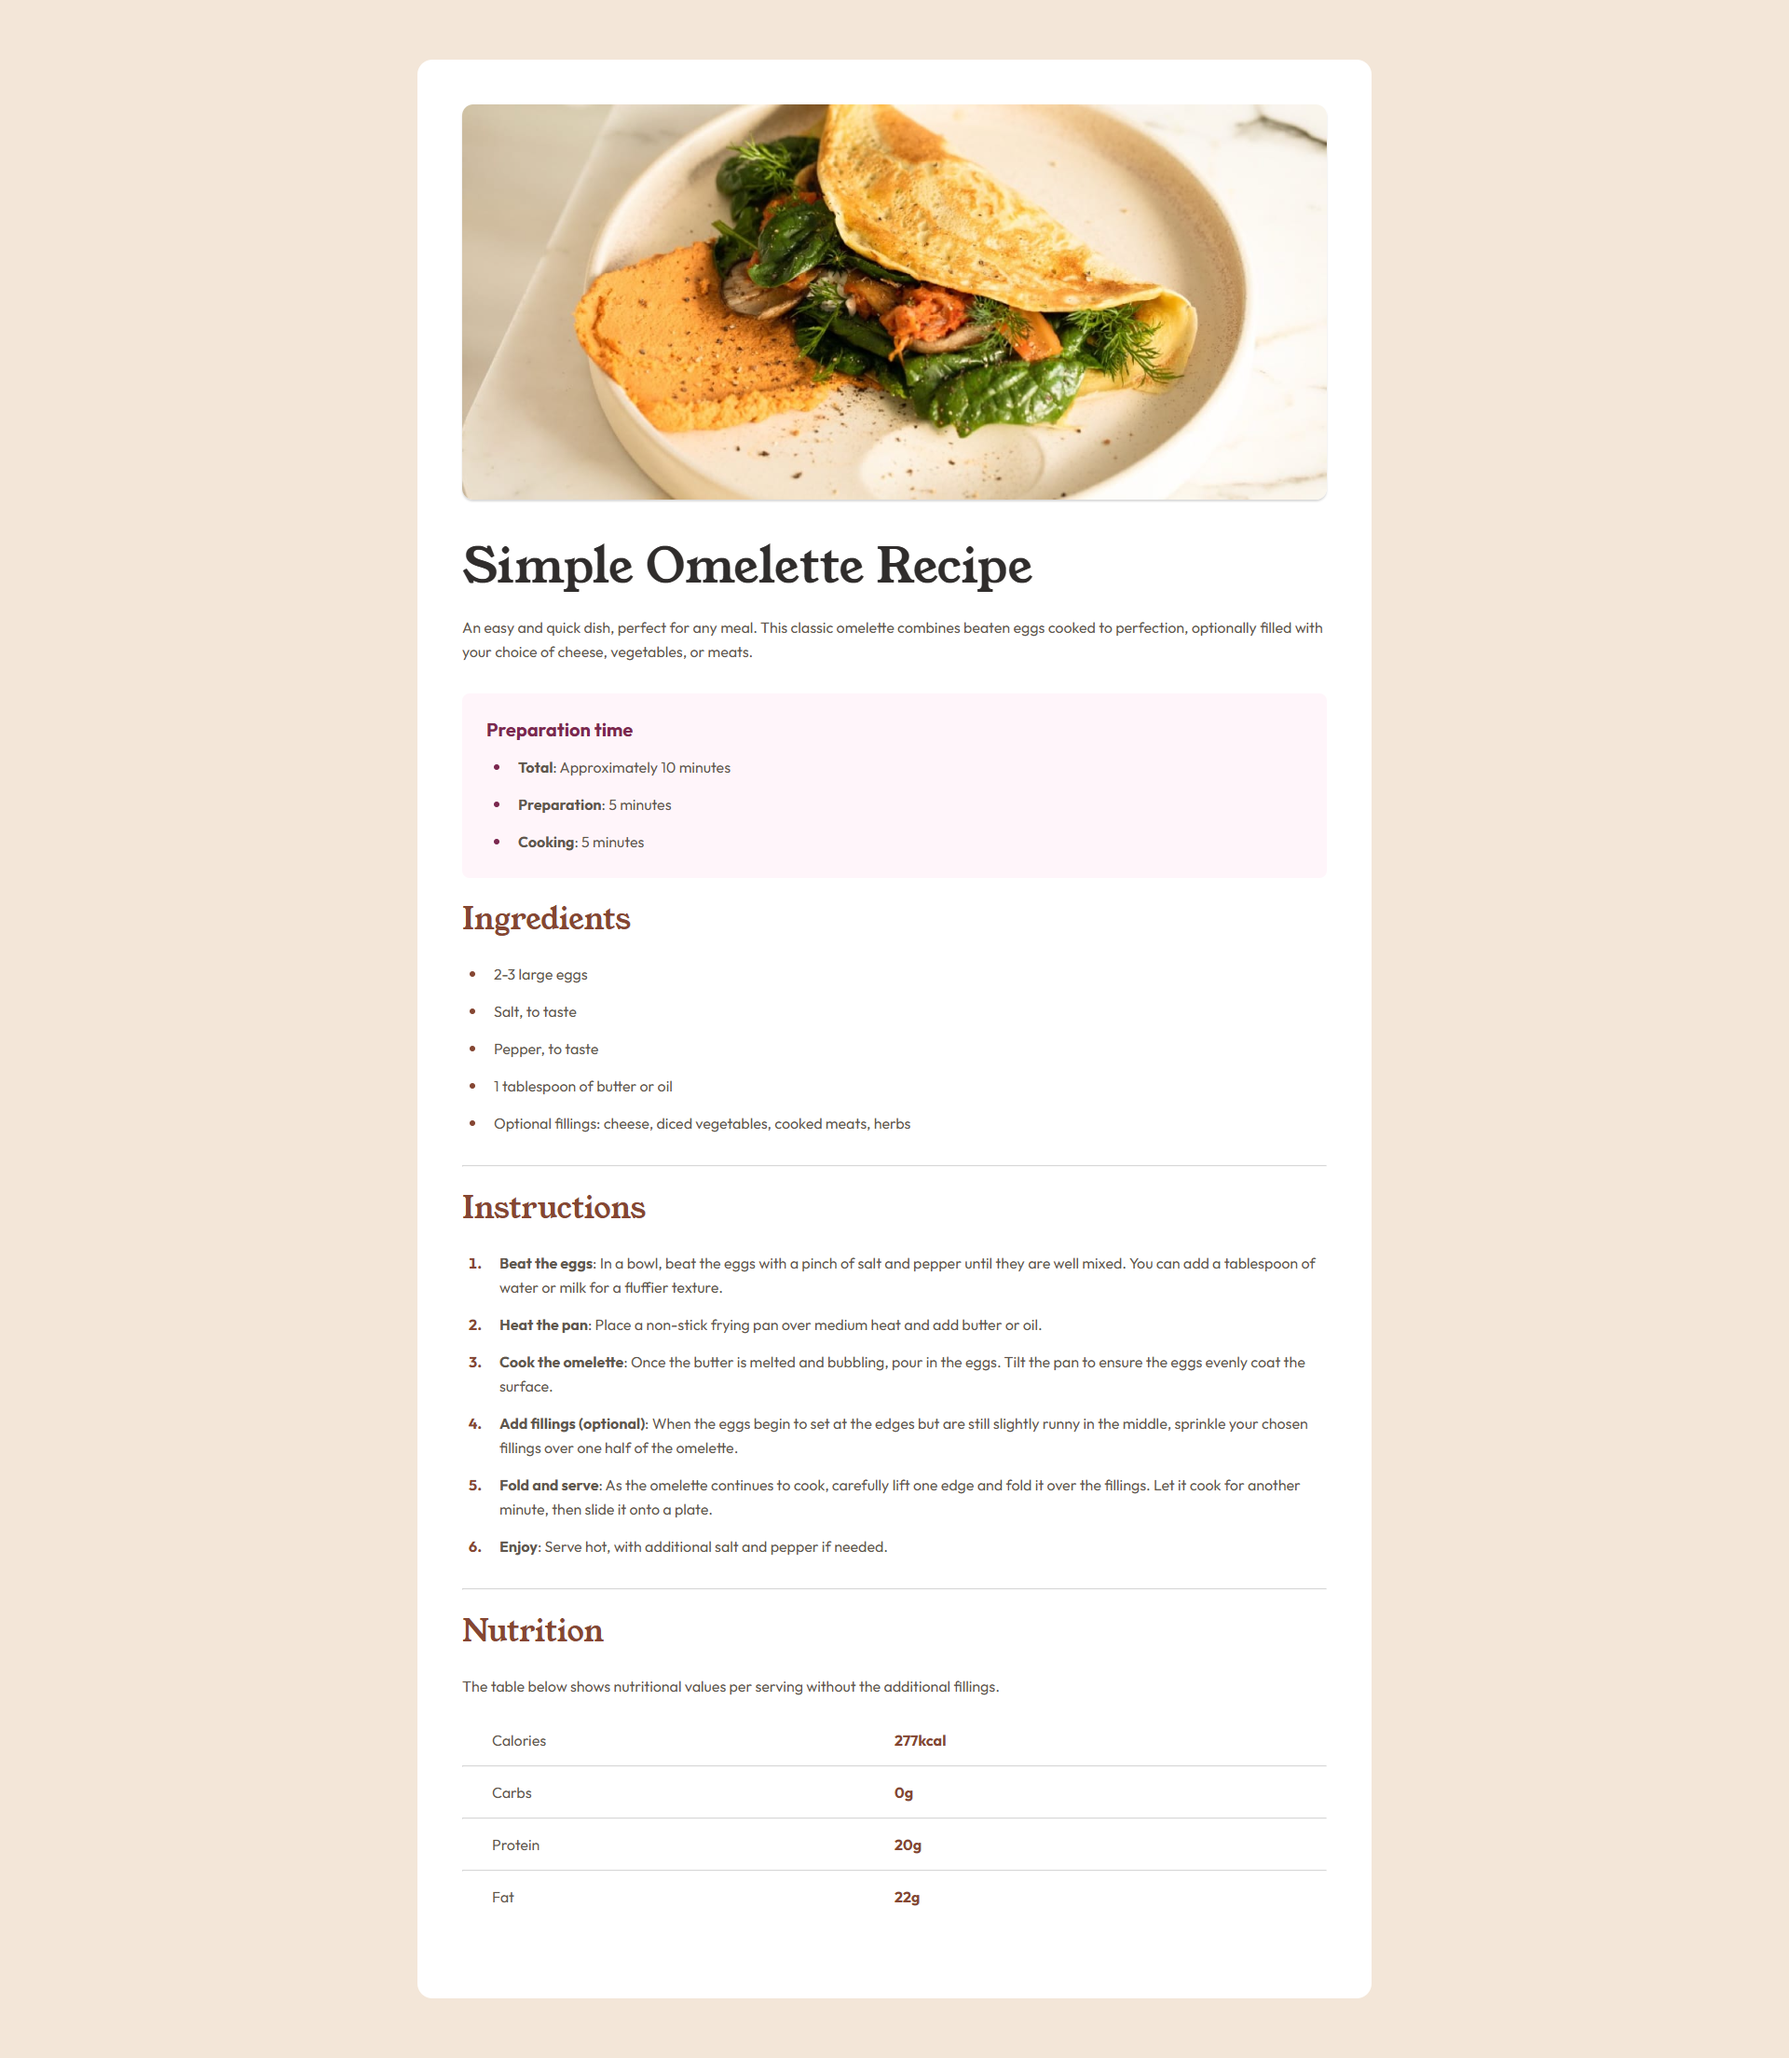
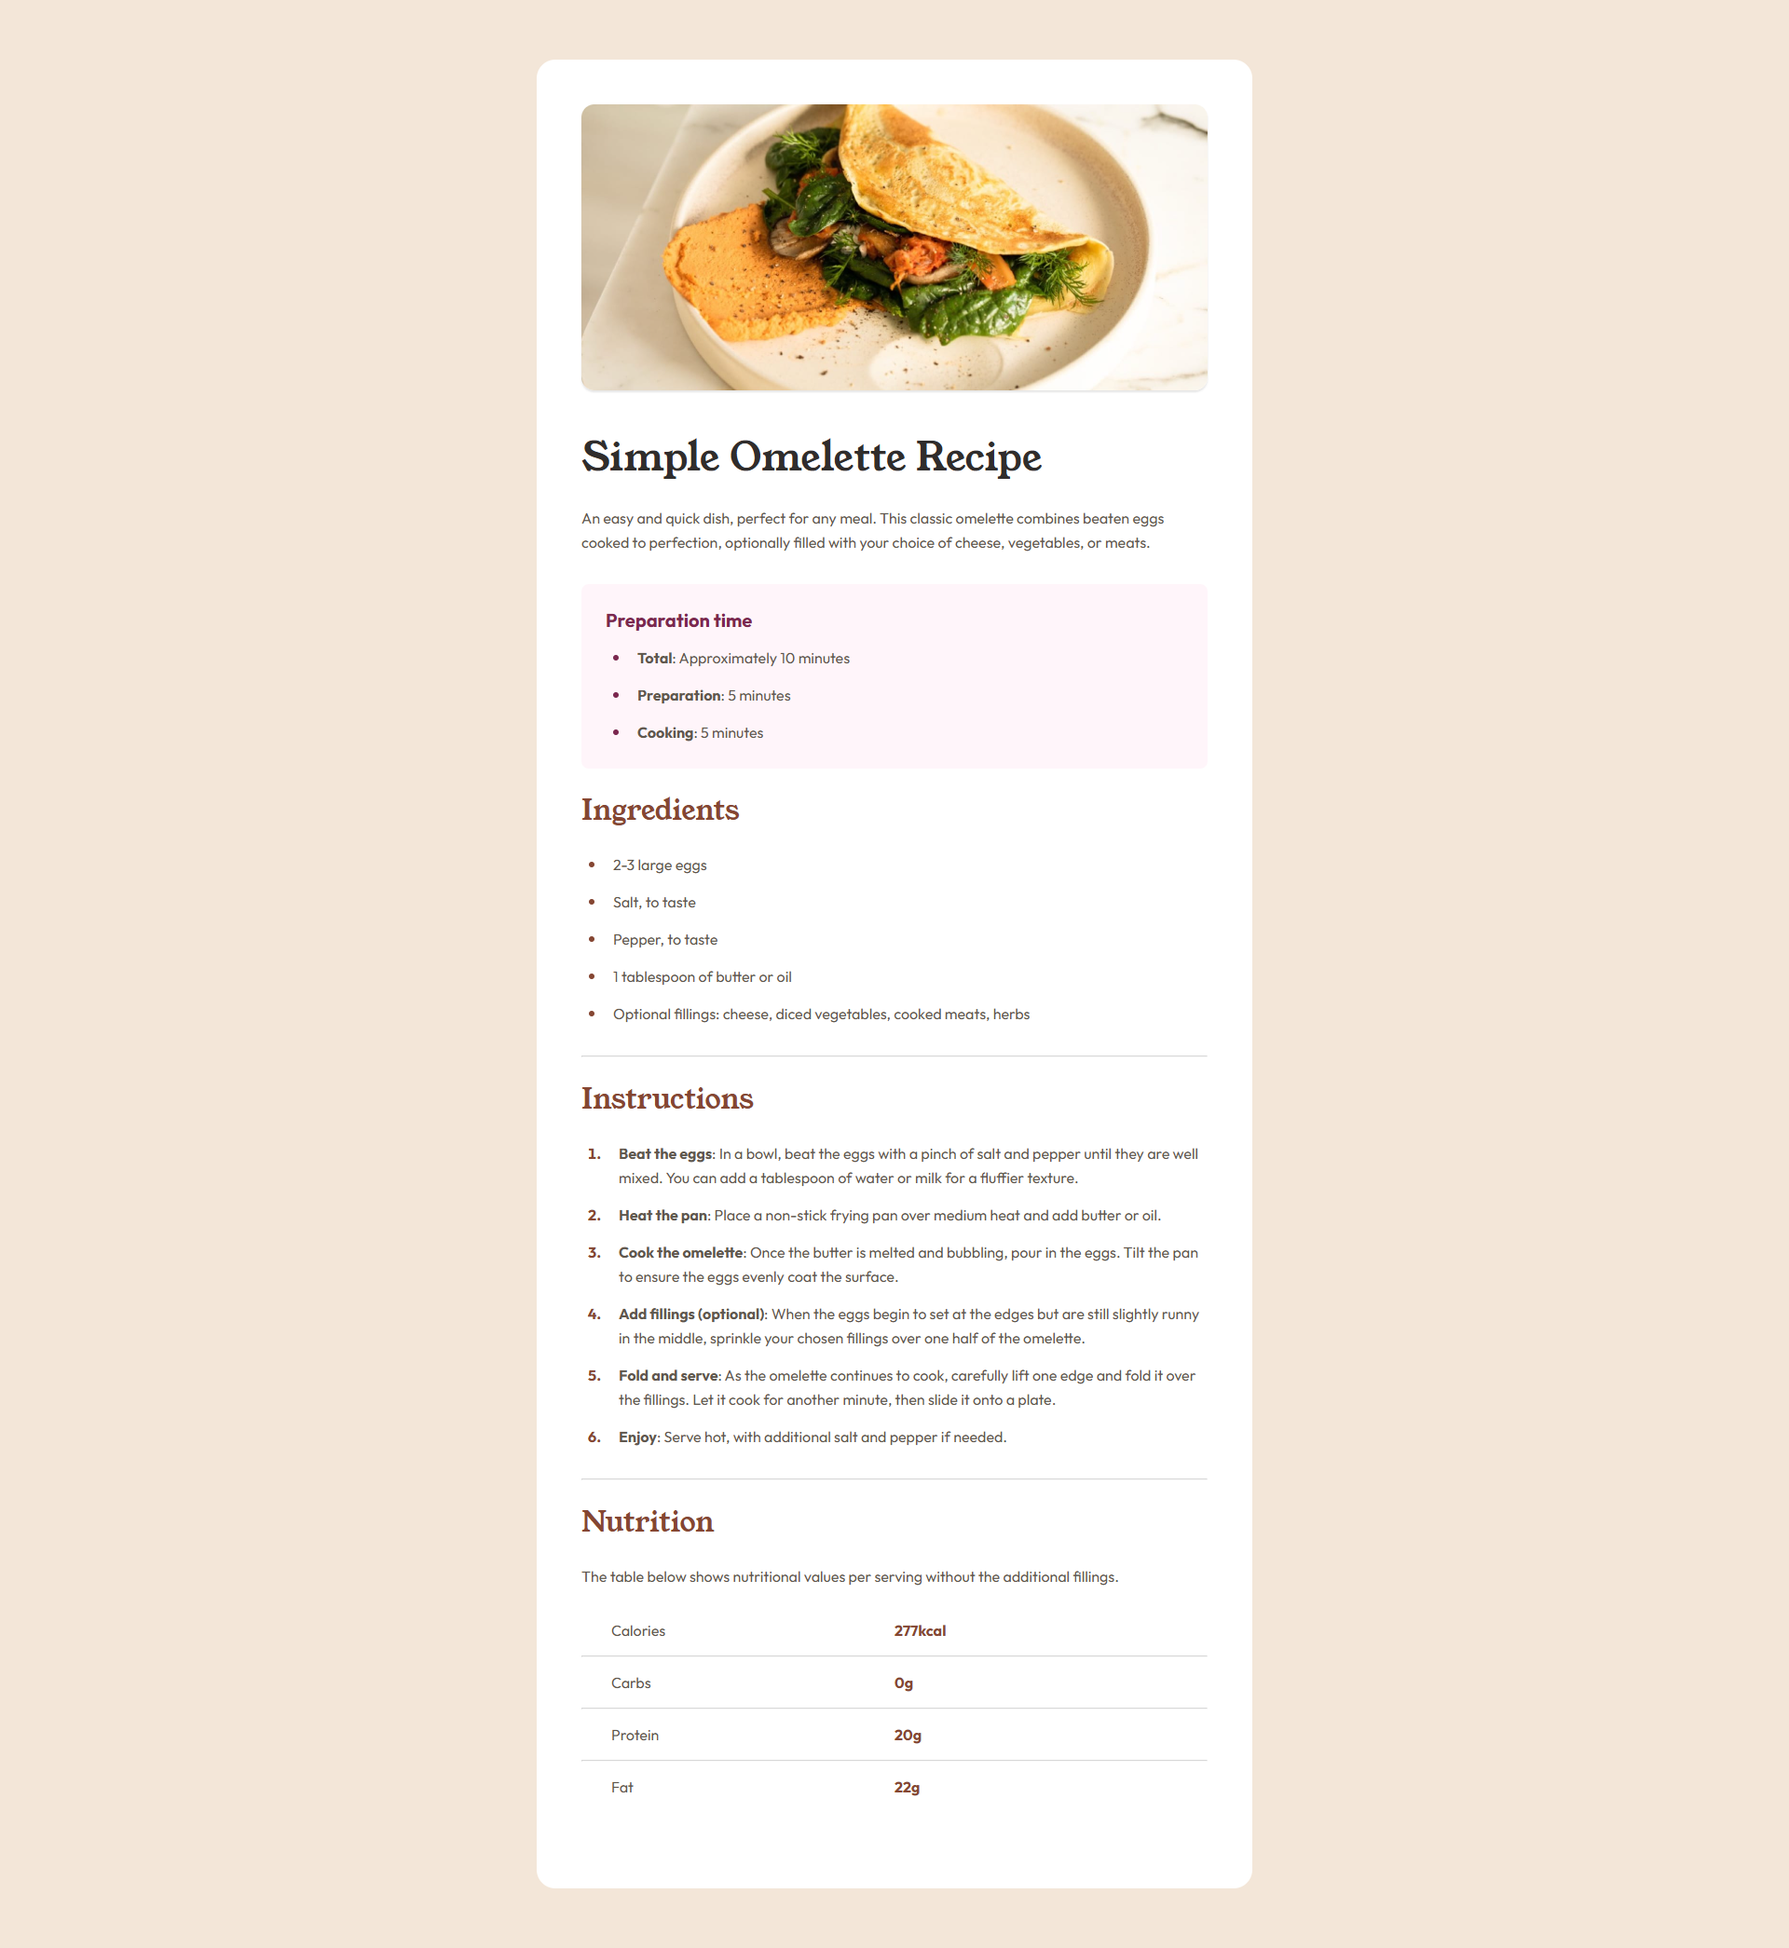
update

Changed region(s): [[0.2188, 0.0311, 0.7812, 0.9947], [0.3438, 0.8704, 0.375, 0.9015]]

diff --git a/assets/css/styles.css b/assets/css/styles.css
@@ -38,7 +38,7 @@ body {
 
 main {
     width: 100%;
-    max-width: 28rem;
+    max-width: 32rem;
     display: grid;
     gap: 2rem;
 }
@@ -49,7 +49,7 @@ h2 {
 }
 
 img {
-    width: 28rem;
+    width: 32rem;
     max-width: 100%;
 }
 
@@ -162,25 +162,24 @@ hr {
     color: var(--brown-800);
 }
 
-@media (min-width: 28rem) {
+@media (min-width: 32rem) {
     body {
         background-color: var(--stone-100);
         padding: 0 0.5rem;
     }
 
     main {
-        max-width: 64rem;
-        gap: 2rem;
+        max-width: 48rem;
         background-color: var(--white);
-        padding: 2rem;
+        padding: 1.625rem;
         margin: 4rem 0;
-        border-radius: 1rem;
+        border-radius: 1.25rem;
     }
 
     img {
         width: 100%;
-        border-radius: 0.75rem;
-        box-shadow: 0 2px 2px rgba(0, 0, 0, 0.15);
+        border-radius: 0.875rem;
+        box-shadow: 0 2px 2px rgba(0, 0, 0, 0.1);
     }
 
     section {
@@ -188,28 +187,12 @@ hr {
     }
 }
 
-@media (min-width: 64rem) {
-    main {
-        padding: 2.25rem;
-    }
-
-    .omelette-recipe h1 {
-        font-size: 3rem;
-    }
-
-    .ingredients h2,
-    .instructions h2,
-    .nutrition h2 {
-        font-size: 2rem;
-    }
-}
-
-@media (min-width: 80rem) {
+@media (min-width: 48rem) {
     main {
         padding: 3rem;
     }
 
     .omelette-recipe h1 {
-        font-size: 3.25rem;
+        font-size: 2.625rem;
     }
 }
